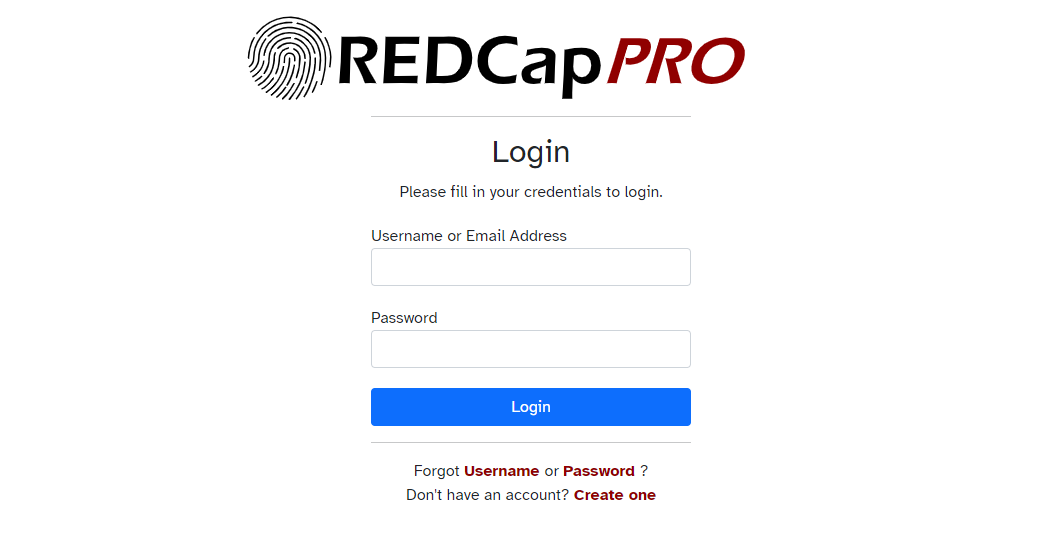
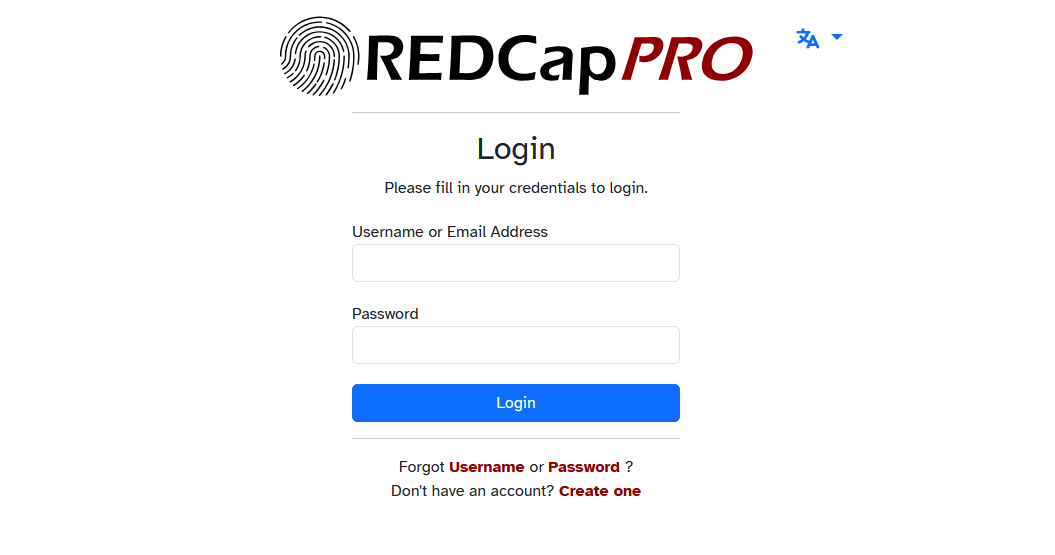
Update README images

diff --git a/README.md b/README.md
@@ -173,6 +173,8 @@ pages, and the Control Center pages. All text is driven by `.ini` translation fi
 customized at both the system and project level. Participants and users can switch languages on the fly from any enabled
 language, and their choice persists across sessions.
 
+![mlm-language-picker](images/screenshots/mlm-language-picker.jpg)
+
 #### Built-In Languages
 
 The following languages ship with the module as built-in `.ini` files located in the [lang](lang) directory:
@@ -205,6 +207,8 @@ Custom system languages act as built-in languages and are available in all proje
 
 #### Project Language Manager
 
+![mlm-settings](images/screenshots/mlm-settings.jpg)
+
 Within the REDCapPRO Project Menu → Settings tab, managers and administrators have access to a full **Language Manager** that goes far beyond simply picking a default language:
 
 - **Activate / Deactivate built-in languages** — Choose which of the built-in (and custom system) languages are offered to participants in this project. Only active languages appear in the participant language selector.
@@ -215,6 +219,11 @@ Within the REDCapPRO Project Menu → Settings tab, managers and administrators 
 - **Edit existing custom translations** — Reopen the string editor for any custom project language to update individual strings.
 - **Download language files** — Export any language (built-in or custom) in either **JSON** or **INI** format. This is useful for sharing translations or using them as a starting point for another language.
 - **Delete custom project languages** — Remove a custom project language and its stored strings. Built-in languages cannot be deleted (only deactivated).
+
+![mlm-edit-settings](images/screenshots/mlm-edit-settings.jpg)
+![mlm-edit-participant](images/screenshots/mlm-edit-participant.jpg)
+![mlm-edit-project](images/screenshots/mlm-edit-project.jpg)
+![mlm-edit-search](images/screenshots/mlm-edit-search.jpg)
 
 > **Note:** Only managers and REDCap administrators can access the Language Manager. The Language Manager is only shown in project settings when the **Allow Project-Level Language Manager** system setting is enabled (REDCap administrators always see it). Built-in languages can be deactivated but not edited or deleted through the UI.
 
@@ -232,6 +241,9 @@ When rendering a page, **REDCapPRO** resolves text strings in the following laye
 4. **Participant's selected language** — The language most recently chosen by the participant via the on-page language selector.
 
 This layered approach means that a custom translation only needs to define the strings it cares about — any untranslated strings gracefully fall back through the chain.
+
+![mlm-picker-project](images/screenshots/mlm-picker-project.jpg)
+![mlm-picker-cc](images/screenshots/mlm-picker-cc.jpg)
 
 ## REDCapPRO Project Menu
 
